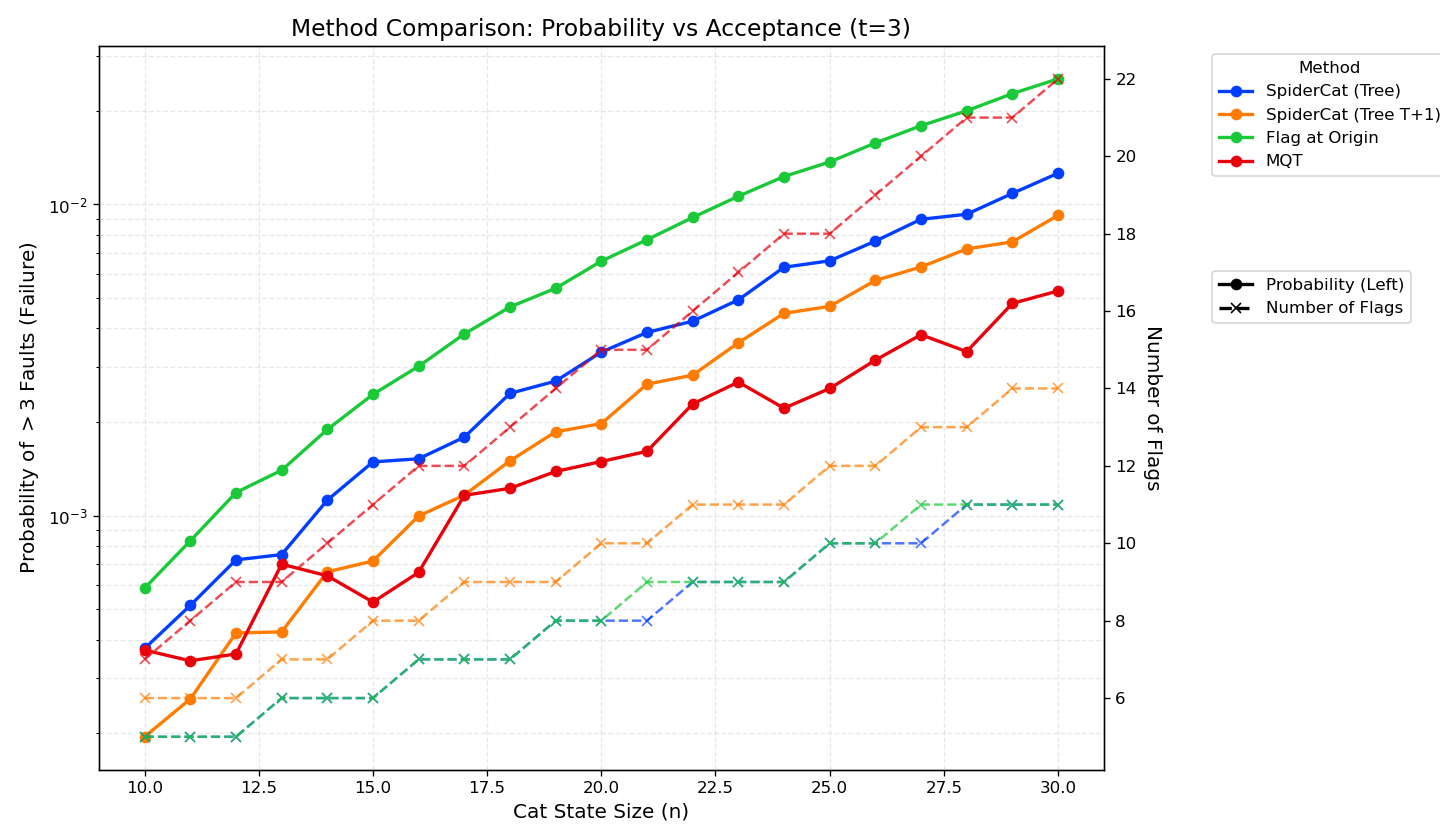
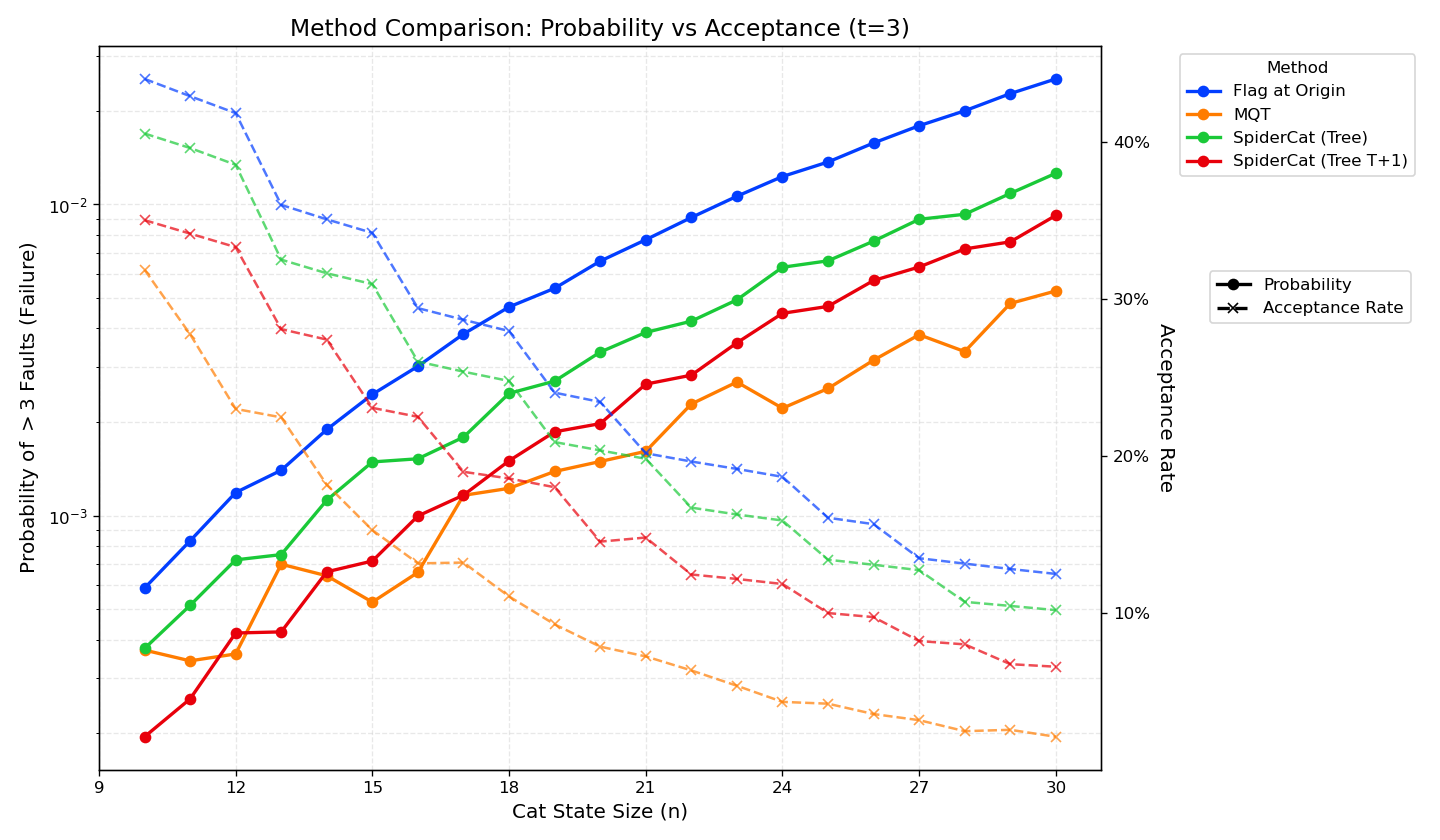
Better visualisation interface

diff --git a/spidercat/visualise.py b/spidercat/visualise.py
@@ -239,7 +239,7 @@ def visualise_pk_per_t_2(df, n):
     plt.show()
 
 
-def visualise_method_comparison(methods_data_dict, t):
+def visualise_method_comparison(methods_data_dict, t, second_y_axis = 'acceptance_rate'):
     """
     Compares multiple methods for a fixed fault distance t with Dual Axis.
 
@@ -280,6 +280,7 @@ def visualise_method_comparison(methods_data_dict, t):
             # We take the mean or just the first value
             acc_rate = group['acceptance_rate'].iloc[0]
             num_flags = group['num_flags'].iloc[0]
+            num_cx = group['num_cx'].iloc[0]
 
             results.append({
                 'n': n,
@@ -288,6 +289,7 @@ def visualise_method_comparison(methods_data_dict, t):
                 'failure_prob': 1.0 - success_prob,
                 'acceptance_rate': acc_rate,
                 'num_flags': num_flags,
+                'num_cx': num_cx,
             })
 
     if not results:
@@ -321,7 +323,7 @@ def visualise_method_comparison(methods_data_dict, t):
 
         # --- Secondary Axis (Right): Acceptance Rate ---
         ax2.plot(
-            subset['n'], subset['num_flags'],
+            subset['n'], subset[second_y_axis],
             color=color, linestyle='--', linewidth=1.5, marker='x', alpha=0.7
         )
 
@@ -330,21 +332,29 @@ def visualise_method_comparison(methods_data_dict, t):
     # Left Axis Styling
     ax1.set_ylabel(f"Probability of $> {t}$ Faults (Failure)", fontsize=12)
     ax1.set_yscale('log')
+    ax1.xaxis.set_major_locator(MaxNLocator(integer=True))
 
     ax1.set_xlabel("Cat State Size (n)", fontsize=12)
     ax1.grid(True, which="both", ls="--", color='lightgrey', alpha=0.5)
 
+    second_y_axis_label = {
+        "acceptance_rate": "Acceptance Rate",
+        "num_flags": "Number of Flags",
+        "num_cx": "Number of CNOTs",
+    }
+    int_secondary_y_axis = ("num_flags", "num_cx")
+
     # Right Axis Styling
-    # ax2.set_ylabel("Acceptance Rate", fontsize=12, rotation=270, labelpad=15)
-    # ax2.yaxis.set_major_locator(MaxNLocator(integer=True))
-    ax2.set_ylabel("Number of Flags", fontsize=12, rotation=270, labelpad=15)
-    ax2.yaxis.set_major_locator(MaxNLocator(integer=True))
-    # ax2.set_ylim(0, 1.05)  # Percents usually 0-1
+    ax2.set_ylabel(second_y_axis_label[second_y_axis], fontsize=12, rotation=270, labelpad=15)
+    if second_y_axis in int_secondary_y_axis:
+        ax2.yaxis.set_major_locator(MaxNLocator(integer=True))
+    else:
+        ax2.yaxis.set_major_formatter(PercentFormatter(xmax=1, decimals=0))
 
     # Combined Legend Construction
     # Part A: Method Colors
     handles, labels = ax1.get_legend_handles_labels()
-    legend1 = ax1.legend(handles, labels, title="Method", loc='upper left', bbox_to_anchor=(1.1, 1))
+    legend1 = ax1.legend(handles, labels, title="Method", loc='upper left', bbox_to_anchor=(1.07, 1))
     ax1.add_artist(legend1)  # Preserve first legend
 
     # Part B: Line Styles (Explanation)
@@ -352,11 +362,11 @@ def visualise_method_comparison(methods_data_dict, t):
         Line2D([0], [0], color='black', lw=2, linestyle='-', marker='o'),
         Line2D([0], [0], color='black', lw=2, linestyle='--', marker='x')
     ]
-    # style_labels = ['Probability (Left)', 'Acceptance Rate']
-    style_labels = ['Probability (Left)', 'Number of Flags']
+
+    style_labels = ['Error Probability', second_y_axis_label[second_y_axis]]
     ax1.legend(style_lines, style_labels, loc='upper left', bbox_to_anchor=(1.1, 0.7))
 
-    plt.title(f"Method Comparison: Probability vs Acceptance (t={t})", fontsize=14)
+    plt.title(f"Method Comparison: Error Probability vs CAT state size (t={t})", fontsize=14)
     plt.tight_layout()
     plt.savefig(f"simulation_data/k_less_t_per_n_at_t{t}.png")
     # plt.show()
@@ -385,6 +395,8 @@ if __name__ == '__main__':
     with open(f"simulation_data/simulation_results_t_n_MQT_p1.json", "r") as f:
         df_MQT = pd.DataFrame(json.load(f))
     methods = {
+        "MQT": df_MQT,
+        "Flag at Origin": df_FAO,
         # "SpiderCat (H-Path)": df_sc_ham,
         "SpiderCat (Tree)": df_sc_tree,
         "SpiderCat (Tree T+1)": (df_sc_tree, 1),
@@ -397,14 +409,12 @@ if __name__ == '__main__':
         # "SpiderCat (3-Path)": df_sc_p3,
         # "SpiderCat (4 forest)": df_sc_p4,
         # "SpiderCat (10 forest)": df_sc_p10,
-        "Flag at Origin": df_FAO,
-        "MQT": df_MQT
     }
     # visualise_method_comparison(methods, t=1)
     # visualise_method_comparison(methods, t=2)
-    visualise_method_comparison(methods, t=3)
+    # visualise_method_comparison(methods, t=3)
     visualise_method_comparison(methods, t=4)
-    visualise_method_comparison(methods, t=5)
+    # visualise_method_comparison(methods, t=5)
     # visualise_method_comparison(methods, t=6)
 
     # with open(f"simulation_data/simulation_results_t_n.json", "r") as f:
